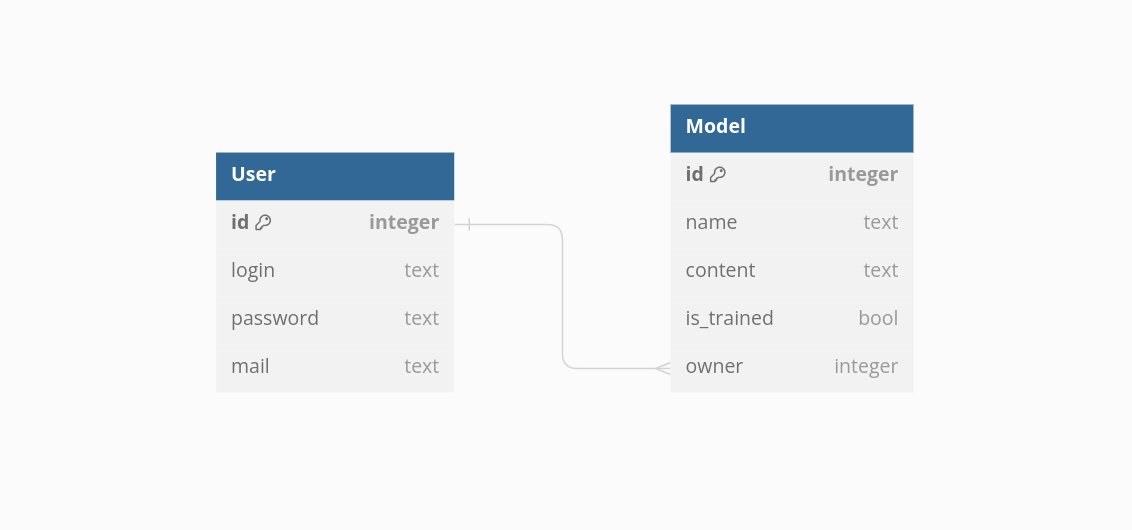
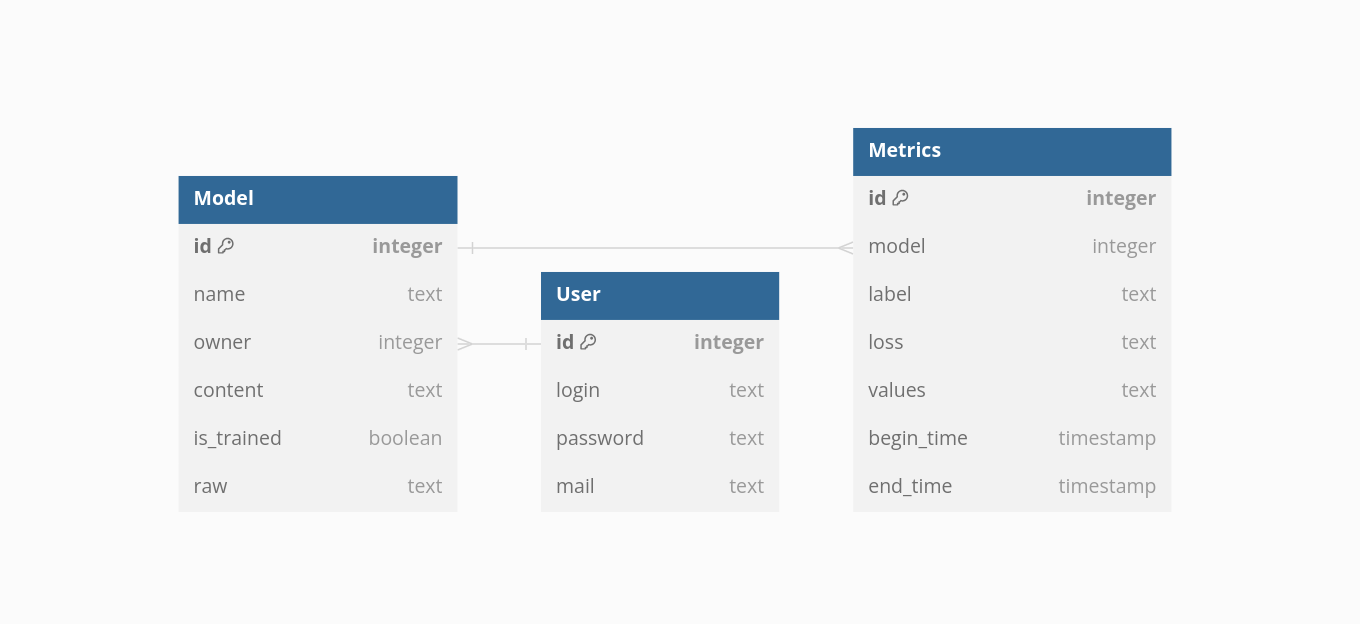
README update (#103)
* Update README.md

* Update DB diagram

* Update Features

* Update schemas (Architecture and C++ server)

---------

diff --git a/README.md b/README.md
@@ -12,6 +12,22 @@
 
 [Artifacts](https://docs.google.com/spreadsheets/d/1bWZJQjIyJ7C32olwx6MAcjix8CeSey4rFpeFd0Huoyc/edit#gid=0)
 
+## About
+
+Our project is a visual editor for neural networks designed to simplify the creation and customization of deep learning models. In a browser-accessible interface, users can intuitively assemble, configure, and optimize neural networks by dragging layers and adjusting parameters in real-time.
+
+A key feature of the project is the ability to train models directly from the editor. The C++ server ensures high performance, allowing users to experiment with architectures and parameters. The trained neural networks generated are ready to predict outcomes for new data
+
+Features of our project:
+
+* Intuitive Interface: User-friendly experience thanks to an intuitively designed interface.
+* Progress Saving: Capability to save the current work progress for user convenience.
+* Light/Dark Themes: Personalization of the user experience.
+* Custom Framework for Neural Network Training: Utilization of our own framework with automatic gradient computation for efficient neural network training.
+* On-the-Spot Training and Prediction: Ability to conduct training sessions and obtain predictions directly within the neural network editor.
+* Export Capabilities: The option to export created models.
+* Neural Network Integrity Check: Built-in validation of the correctness of the neural network.
+
 ## Build options
 
 > **Important:** If CI tests don't pass, but work locally, make sure 
@@ -133,10 +149,12 @@ Use `make help` to see available targets there
 ## Architecture
 
 ### Overview
-![](documentation/ComponentsArchitecture.jpg)
+![](documentation/ComponentsArchitecture.png)
 
 ### Server++
-![](documentation/ServerArchitecture.svg)
+![](documentation/Tensor.png)
+![](documentation/LazyBlobSixth.png)
+![](documentation/GraphFirst.png)
 
 ### Data
 ![](documentation/DatabaseArchitecture.png)
